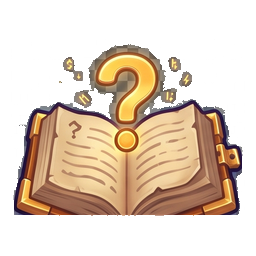
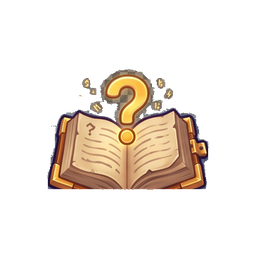
fix: AI Hub ask/recommend 아이콘에 내부 여백 추가 (카드 모서리 클리핑 방지) + 코드 원복 + SW 캐시 갱신

diff --git a/app.html b/app.html
@@ -9720,7 +9720,7 @@
                   style={{
                     width: "100%", textAlign: "left", border: "none", cursor: "pointer",
                     background: c.gradient, color: "white",
-                    borderRadius: 18, padding: c.primary ? "18px 18px" : "18px 20px",
+                    borderRadius: 18, padding: c.primary ? "18px 18px" : "16px 18px",
                     boxShadow: c.shadow,
                     display: "flex", alignItems: "center", gap: 14,
                     transform: "translateZ(0)", transition: "transform 0.15s ease"
@@ -9730,7 +9730,7 @@
                   onMouseLeave={e => { e.currentTarget.style.transform = "scale(1)"; }}
                 >
                   <div style={{
-                    width: c.primary ? 72 : 48, height: c.primary ? 72 : 48,
+                    width: c.primary ? 72 : 60, height: c.primary ? 72 : 60,
                     display: "flex", alignItems: "center", justifyContent: "center",
                     flexShrink: 0, filter: "drop-shadow(0 4px 10px rgba(0,0,0,0.25))"
                   }}>

diff --git a/sw.js b/sw.js
@@ -5,7 +5,7 @@
 // (it replaces `bookquest-v<ts>` with a fresh timestamp), so
 // browsers detect sw.js bytes differ and install the new SW.
 // ═══════════════════════════════════════════════════════
-const CACHE_NAME = 'bookquest-v20260428114000';
+const CACHE_NAME = 'bookquest-v20260428115000';
 
 // Only precache files that actually exist at repo root.
 const ASSETS_TO_CACHE = [
